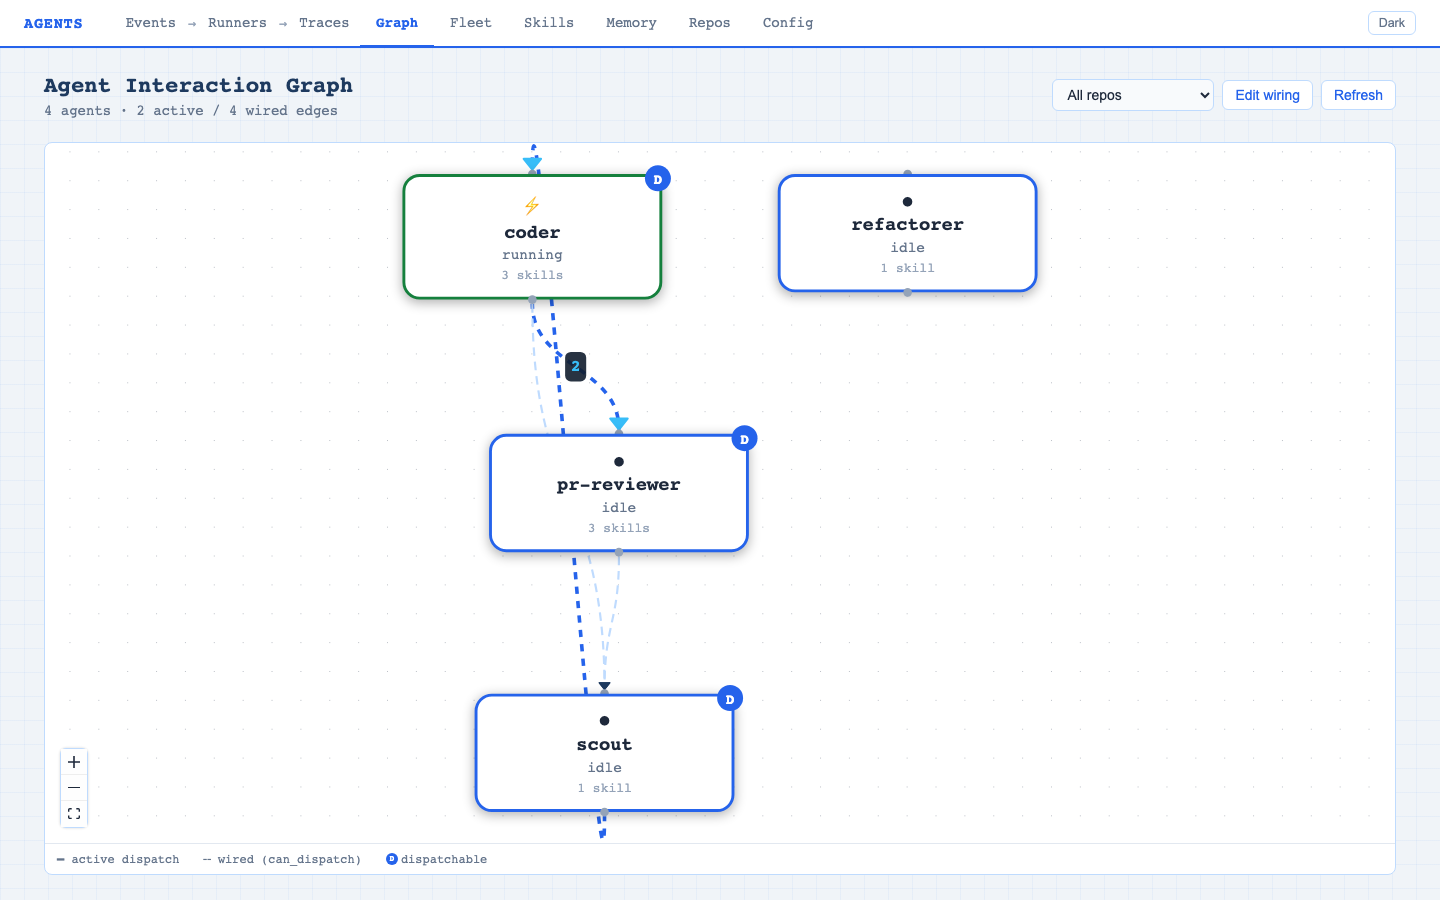
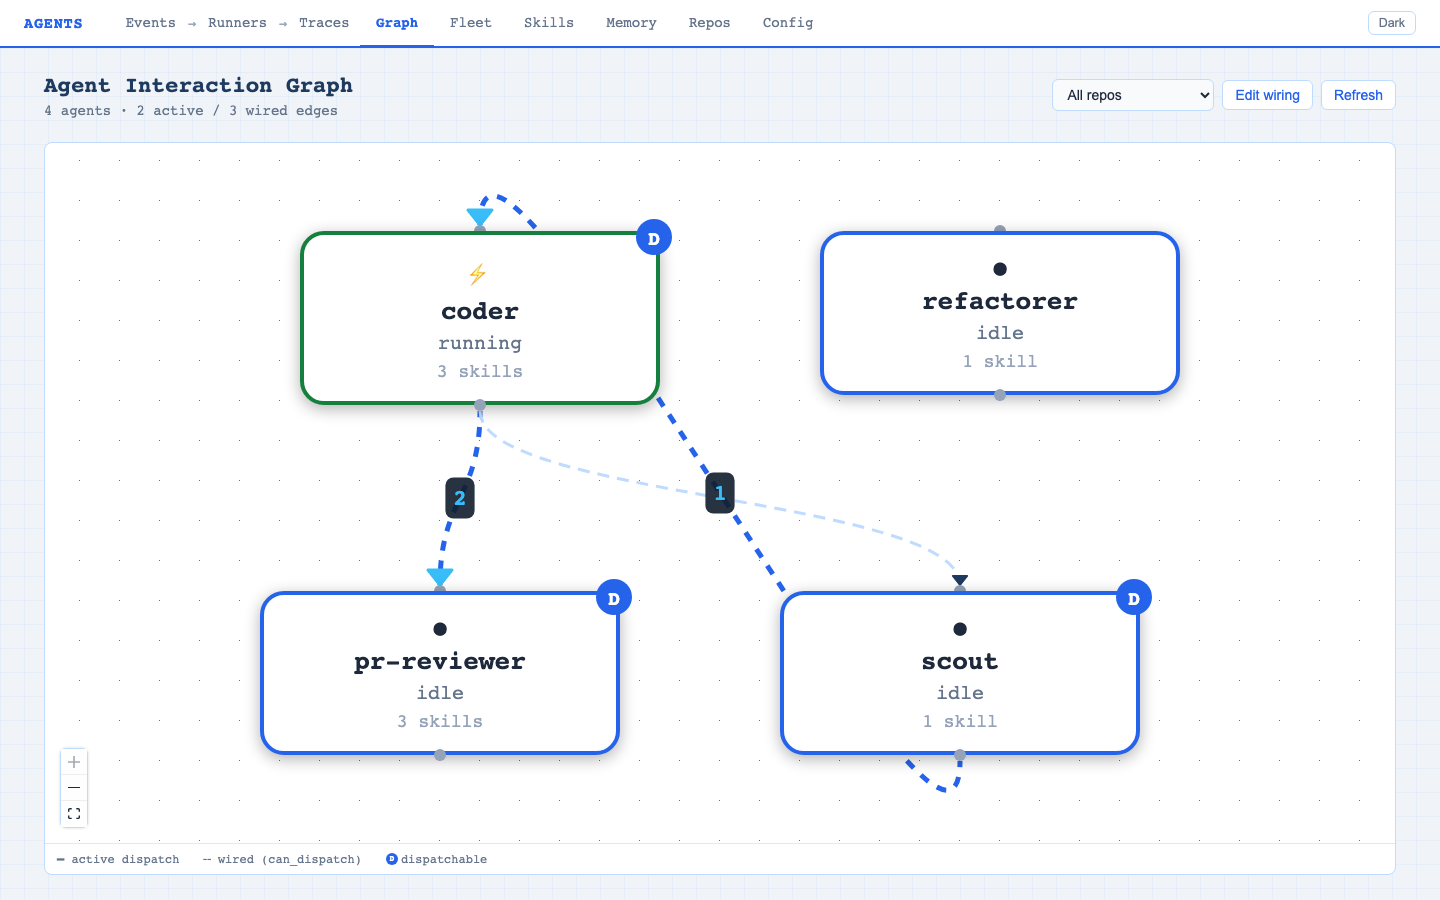
Refresh UI documentation screenshots (#425)
* Fix authenticated dashboard SSE streams

* Refresh UI documentation screenshots

Changed region(s): [[0.1562, 0.1556, 0.8125, 0.9333], [0.5312, 0.1867, 0.8125, 0.4667], [0.8125, 0.28, 0.8438, 0.4356]]

diff --git a/docs/ui.md b/docs/ui.md
@@ -97,7 +97,9 @@ Current fleet config snapshot. Includes YAML import/export for shareable fleet s
 
 ## Authentication
 
-The dashboard is unauthenticated at the daemon level. Place the daemon behind a reverse proxy that gates `/ui/`, `/runners`, and the rest of the authenticated surface (everything except `/webhooks/github`, `/status`, `/run`, `/v1/*`). See [security.md → Reverse-proxy routing](security.md#reverse-proxy-routing) for one concrete pattern using Traefik basic-auth.
+When `AGENTS_AUTH_BEARER_TOKEN_HASH` is set, dashboard data calls use `Authorization: Bearer <token>`. The UI shell at `/ui/` stays public so the browser can render the first-use token modal; sensitive API calls, MCP, runners, traces, config, graph, memory, and live streams require the bearer token. The token is stored only in the browser's `localStorage` and can be changed from Config → Inspector → UI bearer token.
+
+Use your reverse proxy for TLS/routing, not as the primary API auth layer. See [security.md → Bearer-token auth](security.md#bearer-token-auth) and [Reverse-proxy routing](security.md#reverse-proxy-routing).
 
 ## Regenerating these screenshots
 
